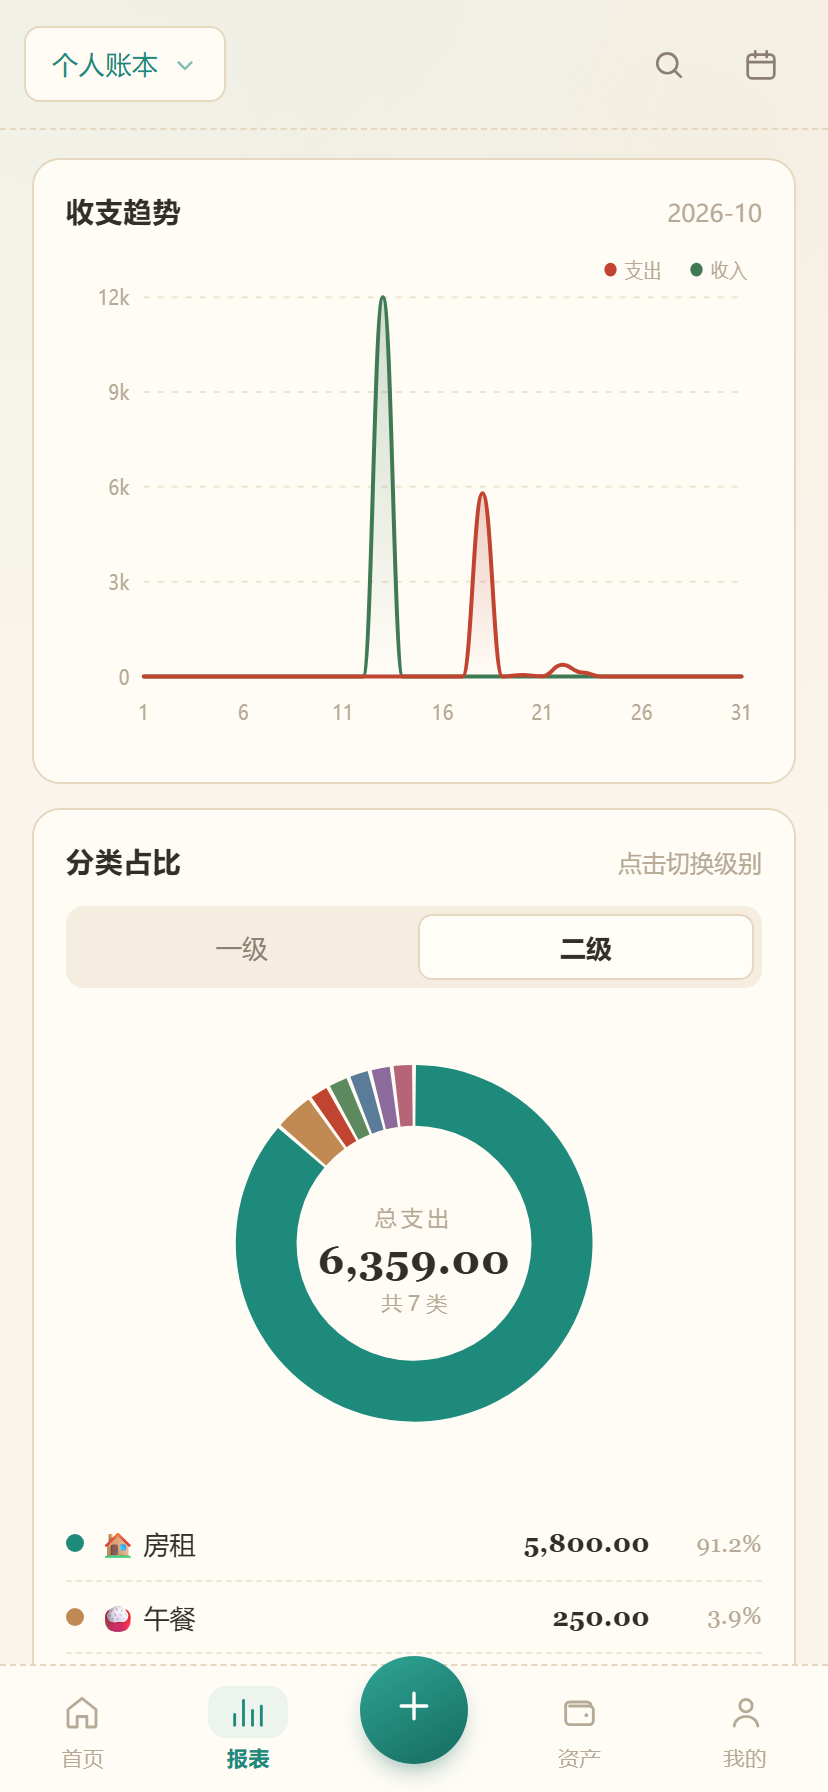
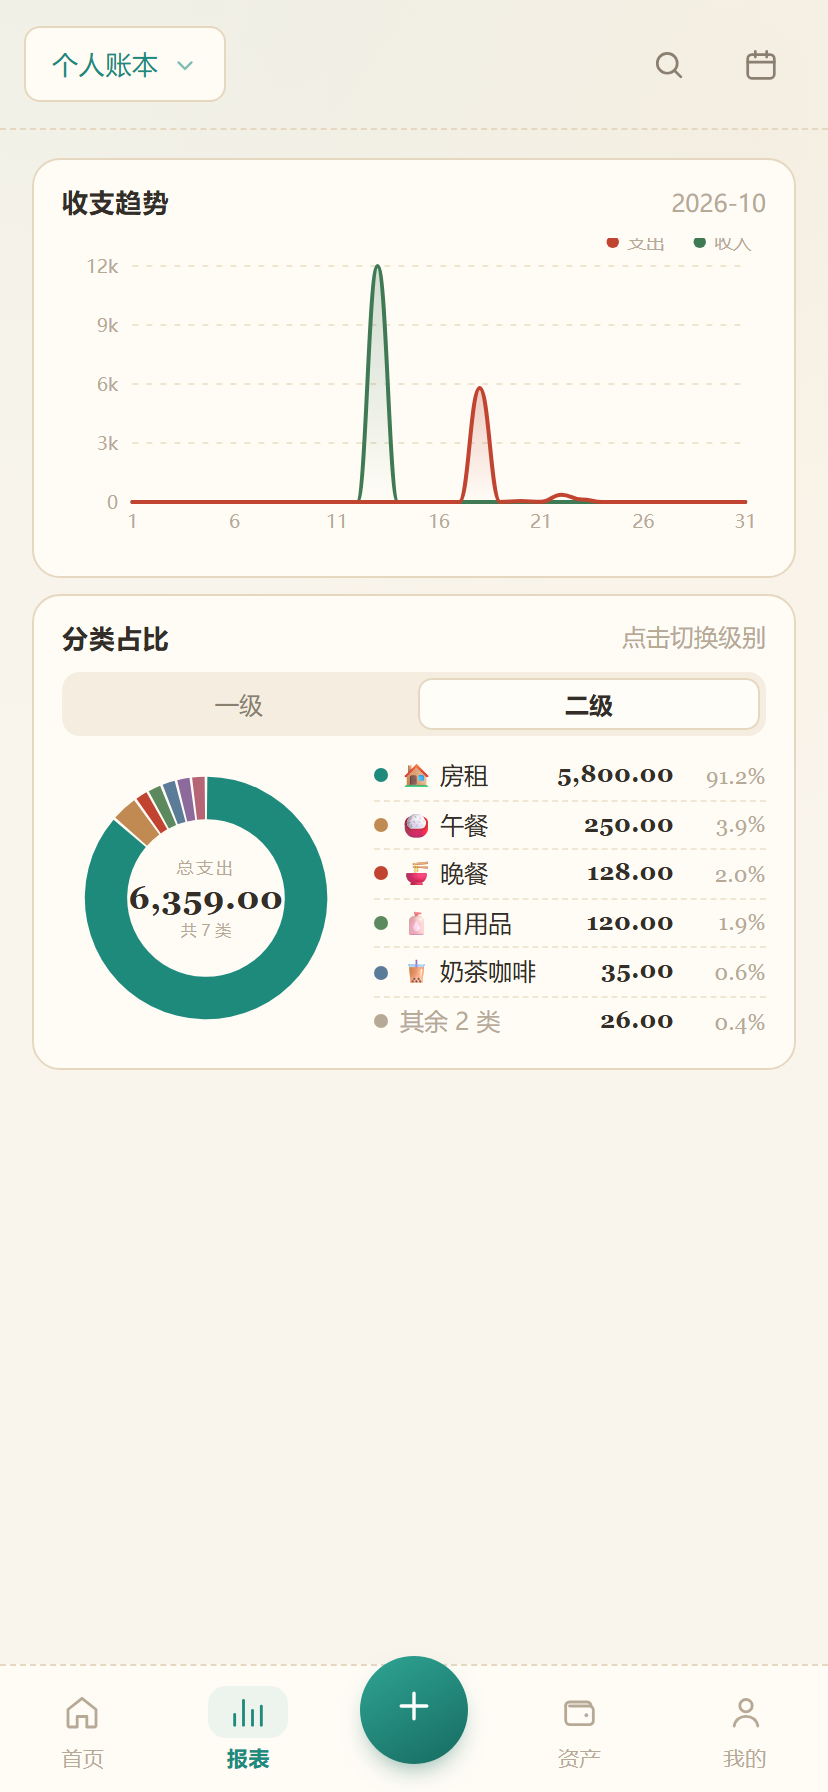
报表页紧凑化：趋势图与环形图缩小、分类榜与环形图并排，加 AI 后三卡一屏显示

diff --git a/index.html b/index.html
@@ -304,6 +304,26 @@
     .field[hidden] { display: none; }
     .ledger-del-hint { font-size: 11.5px; color: var(--text-3); margin-top: 8px; line-height: 1.6; }
 
+    /* ============ 报表页紧凑版：三张卡片一屏放下 ============ */
+    #tab-report .card { padding: 11px 14px; margin-bottom: 8px; }
+    #tab-report .card-title { margin-bottom: 8px; font-size: 13px; }
+    .rep-cat { display: flex; align-items: center; gap: 12px; }
+    .rep-cat .chart-wrap { width: 144px; height: 144px; flex: none; margin-bottom: 0; }
+    .rep-cat .stat-list { flex: 1; min-width: 0; }
+    .rep-cat .stat-list .row { padding: 4px 0; gap: 6px; line-height: 1.3; }
+    .rep-cat .stat-list .name { font-size: 12px; white-space: nowrap; overflow: hidden; text-overflow: ellipsis; }
+    .rep-cat .stat-list .amt { font-size: 12px; }
+    .rep-cat .stat-list .pct { font-size: 11px; width: 40px; }
+    .rep-cat .stat-list .dot { width: 7px; height: 7px; }
+    .rep-cat .stat-list .empty { padding: 16px 4px; }
+    .rep-cat .stat-list .empty .msg { font-size: 12px; }
+    .rep-cat .stat-list .row.rest .name { color: var(--text-3); }
+    #aiCard .card-title { margin-bottom: 8px; }
+    #aiCard .ai-body { font-size: 12.5px; line-height: 1.62; }
+    #aiCard .ai-ask { margin-top: 8px; padding-top: 8px; }
+    #aiCard .ai-ask input, #aiCard .ai-ask button { height: 30px; }
+    #aiCard .ai-sub { font-size: 11.5px; }
+
     /* ============ AI 智能助手（全部沿用既有色板与圆角） ============ */
     .ai-shot {
       width: 100%; margin-top: 8px; height: 44px;
@@ -456,18 +476,18 @@
 
     /* ============ 报表 ============ */
     .report-tabs {
-      display: flex; gap: 4px; padding: 4px; background: var(--bg-soft);
-      border-radius: 9px; margin-bottom: 12px;
+      display: flex; gap: 4px; padding: 3px; background: var(--bg-soft);
+      border-radius: 9px; margin-bottom: 8px;
     }
     .report-tabs button {
-      flex: 1; padding: 8px; border-radius: 7px;
-      font-size: 13px; color: var(--text-2); transition: all .15s;
+      flex: 1; padding: 5px; border-radius: 7px;
+      font-size: 12px; color: var(--text-2); transition: all .15s;
     }
     .report-tabs button.active {
       background: var(--raised); color: var(--text); font-weight: 600;
       box-shadow: inset 0 0 0 1px var(--border);
     }
-    .chart-wrap { position: relative; height: 240px; margin-bottom: 8px; touch-action: pan-y; }
+    .chart-wrap { position: relative; height: 152px; margin-bottom: 6px; touch-action: pan-y; }
     .chart-wrap > #trendChart, .chart-wrap > #catChart { width: 100%; height: 100%; }
     .chart-tip {
       position: absolute; top: 4px;
@@ -1195,8 +1215,10 @@
             <button data-level="1" class="active">一级</button>
             <button data-level="2">二级</button>
           </div>
-          <div class="chart-wrap"><div id="catChart"></div></div>
-          <div class="stat-list" id="catStats"></div>
+          <div class="rep-cat">
+            <div class="chart-wrap"><div id="catChart"></div></div>
+            <div class="stat-list" id="catStats"></div>
+          </div>
         </div>
         <div class="card" id="aiCard" hidden>
           <div class="card-title">
@@ -2637,12 +2659,25 @@
       // 列表
       const total = data.reduce((s, d) => s + d.amount, 0);
       const colors = catColors();
-      $('#catStats').innerHTML = data.length ? data.map((d, i) => `<div class="row">
+      // 右侧榜单只放前 5 类，其余合并一行，保证三张卡片一屏放得下
+      const shown = data.slice(0, 5);
+      const rest = data.slice(5);
+      let statsHtml = shown.map((d, i) => `<div class="row">
         <span class="dot" style="background:${colors[i % colors.length]}"></span>
         <span class="name">${d.icon} ${escapeHtml(d.name)}</span>
         <span class="amt num">${fmtNum(d.amount)}</span>
         <span class="pct num">${total > 0 ? ((d.amount/total)*100).toFixed(1) : 0}%</span>
-      </div>`).join('') : '<div class="empty"><div class="msg">当月无支出</div></div>';
+      </div>`).join('');
+      if (rest.length) {
+        const restAmt = rest.reduce((a, d) => a + d.amount, 0);
+        statsHtml += `<div class="row rest">
+          <span class="dot" style="background:var(--text-3)"></span>
+          <span class="name">其余 ${rest.length} 类</span>
+          <span class="amt num">${fmtNum(restAmt)}</span>
+          <span class="pct num">${total > 0 ? ((restAmt/total)*100).toFixed(1) : 0}%</span>
+        </div>`;
+      }
+      $('#catStats').innerHTML = data.length ? statsHtml : '<div class="empty"><div class="msg">当月无支出</div></div>';
       // AI 卡片：未配置时自己隐藏，配置后按账本/月份读缓存
       renderAiCard();
     }
@@ -2664,7 +2699,7 @@
       const host = $(sel);
       if (!host) return;
       const P = chartPalette();
-      const W = 340, H = 210, pad = { t: 18, r: 10, b: 26, l: 38 };
+      const W = 340, H = 152, pad = { t: 14, r: 10, b: 20, l: 34 };
       const innerW = W - pad.l - pad.r, innerH = H - pad.t - pad.b;
       const maxV = Math.max(1, ...daily.exp.slice(1), ...daily.inc.slice(1));
       const xStep = innerW / Math.max(1, days - 1);
@@ -2778,9 +2813,9 @@
         el.innerHTML = '<div style="display:flex;align-items:center;justify-content:center;height:100%;color:var(--text-3);font-size:13px">当月无支出数据</div>';
         return;
       }
-      const W = 320, H = 210;
-      const cx = W / 2, cy = H / 2 - 4;
-      const R = 82, r = 54;
+      const W = 190, H = 190;
+      const cx = W / 2, cy = H / 2;
+      const R = 80, r = 52;
       const total = data.reduce((s, d) => s + d.amount, 0);
       const TAU = Math.PI * 2;
 
@@ -2814,9 +2849,9 @@
 
       el.innerHTML = `<svg viewBox="0 0 ${W} ${H}" preserveAspectRatio="xMidYMid meet" style="width:100%;height:100%">
         ${arcs.join('')}
-        <text x="${cx}" y="${cy - 8}" text-anchor="middle" font-size="10" fill="var(--text-3)" letter-spacing="2">总支出</text>
-        <text x="${cx}" y="${cy + 14}" text-anchor="middle" font-size="19" font-weight="600" fill="var(--text)" class="num">${fmtNum(total)}</text>
-        <text x="${cx}" y="${cy + 31}" text-anchor="middle" font-size="9.5" fill="var(--text-3)">共 ${data.length} 类</text>
+        <text x="${cx}" y="${cy - 16}" text-anchor="middle" font-size="11" fill="var(--text-3)" letter-spacing="2">总支出</text>
+        <text x="${cx}" y="${cy + 7}" text-anchor="middle" font-size="22" font-weight="600" fill="var(--text)" class="num">${fmtNum(total)}</text>
+        <text x="${cx}" y="${cy + 25}" text-anchor="middle" font-size="10.5" fill="var(--text-3)">共 ${data.length} 类</text>
       </svg>`;
     }
     $$('#catTabs button').forEach(b => {
@@ -3656,7 +3691,7 @@
     function aiModelLabel(id) {
       for (const k in AI_REG) {
         const m = AI_REG[k].text.concat(AI_REG[k].vision).find(x => x.id === id);
-        if (m) return m.name.replace(/\s*·\s*免费$/, '');
+        if (m) return m.name.replace(/\s*·\s*免费(档)?$/, '');
       }
       return String(id || '');
     }

diff --git a/DEVELOPING.md b/DEVELOPING.md
@@ -53,7 +53,7 @@
 |---|---|---|
 | v1.0 | 2026-10-17 | 首个可发布版本：记账、报表、资产、预算、日历、搜索、导入导出、深色模式、PIN 锁 |
 | v1.1 | 2026-10-20 | 日历新增月/年账单统计与逐条明细（按日/按月分段、可切平铺、首屏 30 条 + 加载更多）；App 内新增「使用说明」入口；修复月份切换后选中日期不跟随等缺陷 |
-| v1.4 | 2026-10-24 | **修 AI 真实调用不可用**。① 超时：默认 `Qwen/Qwen3-8B` 是思考型模型，实测回答 "OK" 都需 17.3s（先输出 `reasoning_content`），真实解析提示词必然超过 60s；改为请求体固定带 `enable_thinking:false`（同请求 0.56s）。② 截图识别失败：原默认视觉模型 `THUDM/GLM-4.1V-9B-Thinking` 已被服务商下架（403 `Model disabled`），改为实测可用的 `Qwen/Qwen3-VL-32B-Instruct`（同一张支付截图 3.4s、七个字段全对），并保留 8B / GLM-4.5V 兜底。③ 通道容错：新增 `aiRequest()`，遇 400 且报文含 `enable_thinking` 或 `json mode/response_format` 时摘掉该参数重试（最多 3 次）；遇 403/404 或 model disabled 则返回 `nextModel`，由 `aiCall` 按清单换下一个（最多 3 个模型）；`aiJson()` 增加 `<|begin_of_box|>` 包裹清洗。④ 错误文案：401/402/429/5xx 分别给人话，402 指向实名认证与充值。⑤ 模型清单按 `/v1/models` 实查结果更新。 |
+| v1.4 | 2026-10-24 | **（同日二次发布：报表页三卡一屏紧凑化——趋势图 240→152、环形图改 190×190 正方形并与榜单左右并排、榜单最多 5 类+其余合并、AI 卡行高收紧；`.chart-wrap` 高度与 `drawTrendChart`/`drawDonutChart` 内部画布同步改，否则 preserveAspectRatio 会把图压小）** **修 AI 真实调用不可用**。① 超时：默认 `Qwen/Qwen3-8B` 是思考型模型，实测回答 "OK" 都需 17.3s（先输出 `reasoning_content`），真实解析提示词必然超过 60s；改为请求体固定带 `enable_thinking:false`（同请求 0.56s）。② 截图识别失败：原默认视觉模型 `THUDM/GLM-4.1V-9B-Thinking` 已被服务商下架（403 `Model disabled`），改为实测可用的 `Qwen/Qwen3-VL-32B-Instruct`（同一张支付截图 3.4s、七个字段全对），并保留 8B / GLM-4.5V 兜底。③ 通道容错：新增 `aiRequest()`，遇 400 且报文含 `enable_thinking` 或 `json mode/response_format` 时摘掉该参数重试（最多 3 次）；遇 403/404 或 model disabled 则返回 `nextModel`，由 `aiCall` 按清单换下一个（最多 3 个模型）；`aiJson()` 增加 `<|begin_of_box|>` 包裹清洗。④ 错误文案：401/402/429/5xx 分别给人话，402 指向实名认证与充值。⑤ 模型清单按 `/v1/models` 实查结果更新。 |
 | v1.3 | 2026-10-24 | **AI 智能助手（方案 A：用户自带 Key）**。`#keypad` 删掉 `date/remark/img/ok` 四个冗余键（date 原本点了没反应，remark 只是聚焦输入框，ok 等同头部保存），改 `repeat(3,1fr)` 三列；新增 `.ai-shot` 整行「截图识别」按钮。`#m-add` 顶部加 `#aiSayRow` 一句话输入，**仅当 `billAmount === "0"` 时显示**。新增 `#m-ai`（Key 设置）、`#m-ai-batch`（多张批量确认）两个弹窗、报表页 `#aiCard`（洞察 + 问一问）、我的页 `ai` 行。JS 新增约 520 行 AI 模块：`aiCfg/aiStoreCfg/aiCall`（OpenAI 兼容通道，60s 超时，401/402/429 分别给可读文案）、六个消毒函数 `aiJson/aiNum/aiStr/aiDate/aiCatId/aiAccId`（分类与账户均闭集匹配）、`aiParse/aiOcr/aiGenReport`、`aiCompress`（canvas 最长边 1400 / JPEG .85，只在内存流转）、批量 `aiDrafts` + `aiRenderBatch`、报告按 `ledgerId|ym` 缓存于 `qingzhang.ai.report.v1`。**重构**：抽出 `createBill(p)` 作为唯一写库入口，`saveBill` 新建分支改为调用它。**未配置 Key 时所有 AI 入口 `hidden`，App 行为与 v1.2 完全一致。** |
 | v1.2 | 2026-10-20 | **正式发布的 v1.2（覆盖同号早期误发版）**。① 本月预算对所有账本开放（含旅行账本与自定义账本）：首页预算卡片不再依赖是否已设预算，未设置时给醒目「新增」胶囊 + 「＋ 新增本月预算」大按钮，已设置时可点「修改」，整卡可点；预算弹窗显示「当前账本：xxx」，并兼容缺失预算结构的历史数据。② 分类预算改为可增删改：`#bgCatList` 由"列出全部一级分类"改为"只列已设预算项"，新增 `STATE.bgDraft` 草稿态（增/删/改名先改草稿，点保存才落库，取消即丢弃）；「＋ 新增分类预算」展开 picker，可从已有分类挑选或「新建自定义分类」（写入 `DATA.categories`，记账同步可用）；每行铅笔改名、垃圾桶移出。③ 账本列表每行加铅笔/垃圾桶入口（原来只能点当前账本或右键编辑），新增 `deleteLedger()` 连带清理该账本账单/账户/分类/预算，强制至少保留一个账本；编辑弹窗底部加「删除这个账本」。④ 新建自定义分类改为专用弹窗 `#m-newcat`（不再用 `promptDialog`）：名称输入 + 图标选择按钮，点「选择 ▾」展开 `#ncIconPanel`，图标来自 `ICON_GROUPS`（12 类共 108 个彩色 Emoji，与预设分类同源），点选即写入 `STATE.ncIcon` 并高亮，保存时随分类一起落库 |
 
